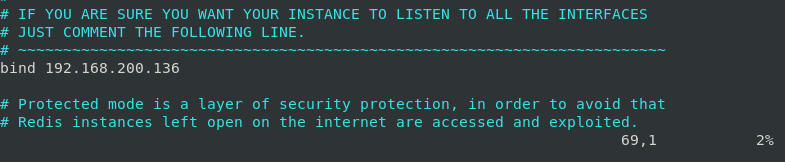
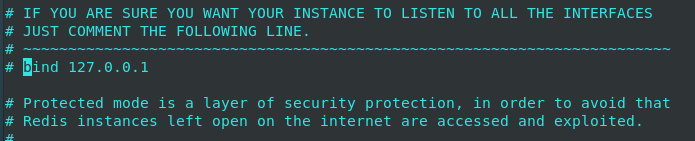
新增「啟動Redis集群模式」

diff --git a/DB/Redis/RedisInstall/redis-6.0.5-install-cluster-centOS7.md b/DB/Redis/RedisInstall/redis-6.0.5-install-cluster-centOS7.md
@@ -10,7 +10,7 @@ $ cd /opt/redis
 $ wget http://download.redis.io/releases/redis-6.0.5.tar.gz
 $ tar xzf redis-6.0.5.tar.gz
 $ cd redis-6.0.5
-$ make distclean && make
+$ sudo make distclean && sudo make
 ```
 
 > ### 可能錯誤:  
@@ -24,7 +24,7 @@ $ make distclean && make
 >   ```    
 >   ![testGccInstallation](./redis-6.0.5-install-cluster-centOS7_img/install/testGccInstallation.png)  
 >   ```shell  
->   $ make  
+>   $ sudo make  
 >   ```
 > -  jemalloc/jemalloc.h: No such file or directory -> 上次編譯有殘留文件，需清理後再重新編譯，並指定Redis分配器為libc
 > ![jemalloc-jemallocNoSuchFileOrDirectory](./redis-6.0.5-install-cluster-centOS7_img/install/jemalloc-jemallocNoSuchFileOrDirectory.png)  
@@ -154,94 +154,95 @@ $ sudo cp src/redis-cli /usr/local/bin/
 
 ---
 
-## 啟動Redis集群模式-讀寫分離
-### 使用以下指令運行Redis集群模式-讀寫分離：  
-1. 將預設設定檔放置指定目錄下，並修改設定檔:
-   ```shell
-    $ mkdir /opt/redis/conf
-    $ cp /opt/redis/redis-6.0.5/redis.conf /opt/redis/conf/redis.conf # 做為主設定檔
-    $ chmod 775 /opt/redis/conf/redis.conf # 修改權限(可略)
-    $ vim /opt/redis/conf/redis.conf
+## 啟動Redis集群模式  
+### 依循下列步驟，啟動設置並啟動Redis集群模式  
+1. 建立相關目錄
+    ```shell  
+    $ cd /opt/redis
+    $ sudo mkdir redis-cluster
+    $ cd redis-cluster
+    $ sudo mkdir conf data log
+    $ sudo mkdir -p data/redis-7000 data/redis-7001 data/redis-7002 data/redis-8000 data/redis-8001 data/redis-8002
     ```  
-    - line: 69 (選用,供外部訪問)<a name='(供外部訪問)'></a>  
-    將ip (預設127.0.0.1)修改為本(虛擬)機ip.  
-    綁定多個ip, 可使用bind 127.0.0.1 192.168.xxx.xxx  
-        ![configConf-ip](./redis-6.0.5-install-cluster-centOS7_img/conf/configConf-ip.png) 
-    <!-- - line: 92 (更改port)  
-    在本件範例中，使用默認的port (6379)，因此不需要修改.
-        ![configConf-port](./redis-6.0.5-install-cluster-centOS7_img/conf/configConf-port.png)  -->
-    - line: 206  
-    將守護程序(背景執行)(daemonize)設置為'yes' (默認情況下設置為'no'). 
-        ![configConf-daemonize](./redis-6.0.5-install-cluster-centOS7_img/conf/configConf-daemonize.png)  
-    <!-- - line: 228  
-    將pidfile設置為/var/run/redis_6379.pid (如果需要，請修改port).
-        ![configConf-pidfile](./redis-6.0.5-install-cluster-centOS7_img/conf/configConf-pidfile.png)   -->
-    - line: 236  
-    設置日誌級別.
-        ![configConf-loglevel](./redis-6.0.5-install-cluster-centOS7_img/conf/configConf-loglevel.png)  
-    <!-- - line: 241 (日誌檔案的地址)  
-    將日誌文件設置為/var/log/redis_6379.log, 該路徑一定要是文件夾.  
-        ![configConf-logfile](./redis-6.0.5-install-cluster-centOS7_img/conf/configConf-logfile.png)   -->
-    <!-- - line: 346 (數據持久存放處)  
-        將目錄設置為/var/redis/6379 (非常重要的步驟！).  
-        ![configConf-dir](./redis-6.0.5-install-cluster-centOS7_img/conf/configConf-dir.png)  -->
+    備註: port: 7000為主機(master)，8000則為從機(slave)，以利區分.  
 
-2. 複製設定檔為master, slave設定檔至ms目錄下:  
-    - port: 6379為master，其他則為slave.  
-   ```shell
-    $ mkdir /opt/redis/conf/ms
-    $ cd /opt/redis/conf/ms
-    $ for i in {6379..6382} # 利用迴圈複製設定檔，並以port命名
-    $ do
-    $ sudo touch redis$i.conf
-    $ sudo chmod 775 redis$i.conf # 修改權限(可略)
-    $ # 將相關設定寫入conf
-    $ echo "include /opt/redis/conf/redis.conf" >> redis$i.conf # 其他設定檔依設定檔為主
-    $ echo "pidfile /var/run/redis_$i.pid" >> redis$i.conf # pid寫入位置
-    $ echo "port $i" >> redis$i.conf # port號
-    $ echo "dbfilename dump$i.rdb" >> redis$i.conf # db名稱
-    $ if [ $i -ne 6379 ] 
-    $ then 
-    $ echo "slaveof local 6379" >> redis$i.conf # 以port 6379 為master, 自己為slave
-    $ echo "slave port : $i"
-    $ else
-    $ echo "master port : $i"
-    $ fi 
-    $ done
-    ```  
-    或直接複製:  
-    for i in {6379..6382};   
-        do  
-            sudo touch redis$i.conf;   
-            sudo chmod 775 redis$i.conf;  
-            echo "include /opt/redis/conf/redis.conf" >> redis$i.conf ;   
-            echo "pidfile /var/run/redis_$i.pid" >> redis$i.conf ;   
-            echo "port $i" >> redis$i.conf ;   
-            echo "dbfilename dump$i.rdb" >> redis$i.conf ;    
-            if [ $i -ne 6379 ] ;  
-                then echo "slaveof local 6379" >> redis$i.conf;   
-                echo "slave port : $i";   
-            else   
-                echo "master port : $i  ";   
-            fi ;  
-        done  
-
-3. 啟動伺服器
-    使用以下指令啟動伺服器:
-    ```shell 
-    $ for i in {6379..6382};   
-    $ do  
-    $ redis-server /opt/redis/conf/ms/redis$i.conf
-    $ done 
-    ```  
-    或直接複製:  
-    for i in {6379..6382};   
-        do  
-            redis-server /opt/redis/conf/ms/redis$i.conf  
-        done 
-4. 驗證是否啟動  
+2. 建置Redis相關配置檔  
+      1. 建立配置檔(依port命名)  
+         ``` shell  
+         $ cd /opt/redis/redis-cluster/conf
+         $ sudo cp /opt/redis/redis-6.0.5/redis.conf redis.conf
+         $ touch redis-7000.conf redis-7001.conf redis-7002.conf
+         $ touch redis-8000.conf redis-8001.conf redis-8002.conf
+         $ sudo chmod 775 * # 如果有需要，統一修改權限
+         ```  
+      2. 編輯配置檔(以7000為例)  
+         ```shell  
+         $ sudo vim redis-7000.conf 
+         ```   
+         
+           - 於配置檔中，輸入相關配置  
+            
+            ```shell  
+            include /opt/redis/redis-cluster/conf/redis.conf
+            daemonize yes  
+            bind 127.0.0.1 192.168.200.141  
+            dir /opt/redis/redis-cluster/data/redis-7000  
+            pidfile /var/run/redis-cluster/redis-7000.pid  
+            logfile /opt/redis/redis-cluster/log/redis-7000.log
+            port 7000  
+            cluster-enabled yes  
+            cluster-config-file /opt/redis/redis-cluster/conf/node-7000.conf  
+            cluster-node-timeout 10000  
+            appendonly yes  
+            ```  
+   
+           - 參數說明:  
+            ```shell  
+            # 其他本配置檔未設定之設定參照來源   
+            include /opt/redis/redis-cluster/conf/redis.conf  
+            
+            # 守護模式(背景執行)  
+            daemonize yes  
+            # 繫結的主機埠  
+            bind 127.0.0.1 192.168.200.141 # 外部ip依需求調整   
+            # 資料存放目錄  
+            dir /opt/redis/redis-cluster/data/redis-7000  
+            # 程序檔案  
+            pidfile /var/run/redis-cluster/redis-7000.pid  
+            # 日誌檔案  
+            logfile /opt/redis/redis-cluster/log/redis-7000.log  
+            # 埠號  
+            port 7000  
+            # 開啟叢集模式  
+            cluster-enabled yes  
+            # 叢集的配置，配置檔案首次啟動自動生成  
+            cluster-config-file /opt/redis/redis-cluster/conf/node-7000.conf  
+            # 請求超時，設定10秒  
+            cluster-node-timeout 10000
+            # aof日誌開啟，有需要就開啟，它會每次寫操作都記錄一條日誌  
+            appendonly yes  
+            ```
+           - 其他配置檔(7001, 7002, 8000, 8001, 8002)，同理.  
+  
+3. 啟動伺服器  
+    執行下列指令，以啟動伺服器.  
     ```shell
-    $ ps -ef | grep redis  
+    $ cd /opt/redis/redis-cluster
+    $ redis-server conf/redis-7000.conf
+    $ redis-server conf/redis-7001.conf
+    $ redis-server conf/redis-7002.conf
+    $ redis-server conf/redis-8000.conf
+    $ redis-server conf/redis-8001.conf
+    $ redis-server conf/redis-8002.conf
     ```
-    啟動成功  
-    ![configConf-daemonize](./redis-6.0.5-install-cluster-centOS7_img/cluster-ms1/runSuccess.png)  
+    > ### 可能錯誤:  
+    > - Can't open the append-only file: Permission denied  
+    > ![getData](./redis-6.0.5-install-cluster-centOS7_img/clusterMode/append-onlyFile_PermissionDenied.png)  
+    >   原因:權限不足寫入aof日誌.  
+    >   執行下列指令開啟相關權限  
+    >   ```shell 
+    >   $ cd /opt/
+    >   $ sudo chmod -R 775 redis # 修改目錄下權限
+    >   $ sudo chown -R tai:root redis # 修改目錄(檔案)擁有者
+    >   ```  
+    >   
